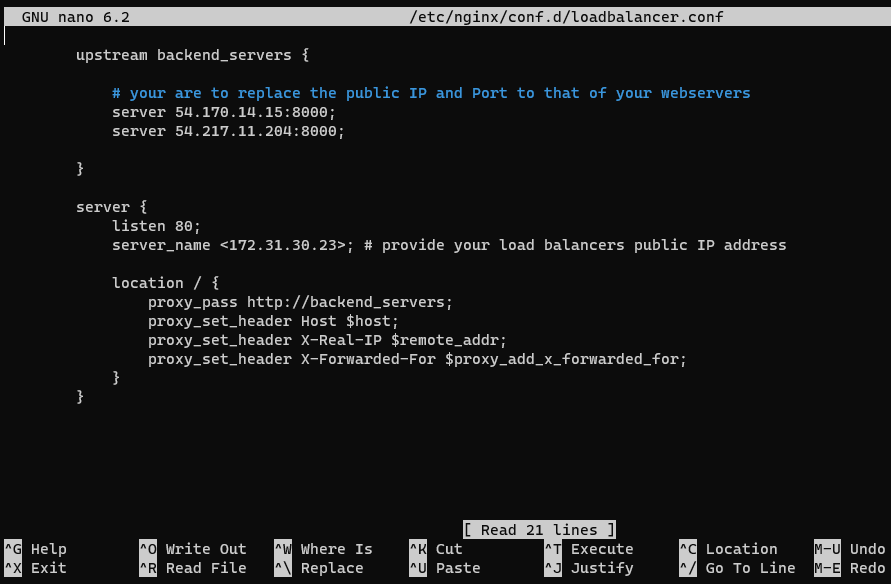
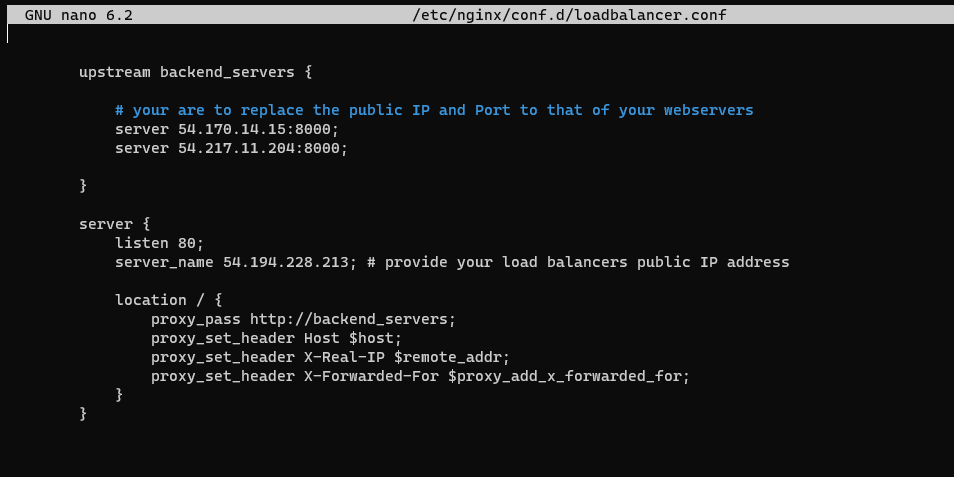
New Insertion

diff --git a/Implementing Load Balancers with Nginx/README.md b/Implementing Load Balancers with Nginx/README.md
@@ -200,9 +200,9 @@ Public IP Address:**`LISTEN PORT 8000`**
 
 **`sudo nano /etc/nginx/conf.d/loadbalancer.conf`**
 
-- Paste this configuration file below, this file configures nginx to act like a load balancer. Also note to edit the file
+- Paste this configuration file below, this file configures nginx to act like a load balancer. Also, note to edit the file
 
-and provide necessary information like your server IP addressof both servers (EC2 instances).
+and provide necessary information like your server IP address of both servers (EC2 instances).
 
 ![Alt text](<Images/nginx edit.png>)
 
@@ -211,10 +211,17 @@ and provide necessary information like your server IP addressof both servers (EC
 **`sudo nginx -t`**
 
 ![Alt text](Images/nginx-t.png)
+*configuration OK*
 
 - Next, we restart Nginx to load the new configuration with the command below:
 
 **`sudo systemctl restart nginx`**
+
+- Finally, paste the Public address of Nginx Load Balancer. We should see the same webpages served by the webservers.
+
+
+
+
 
 
 
